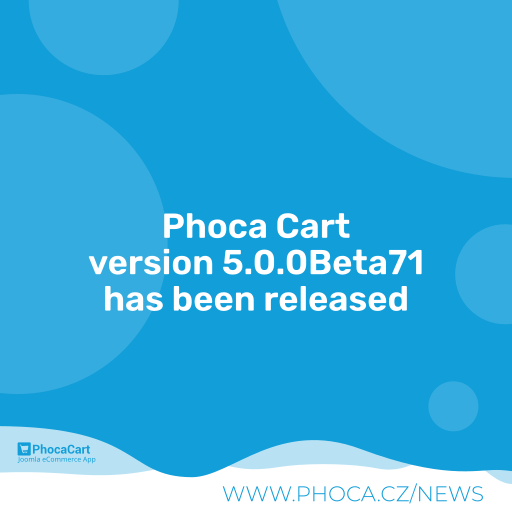
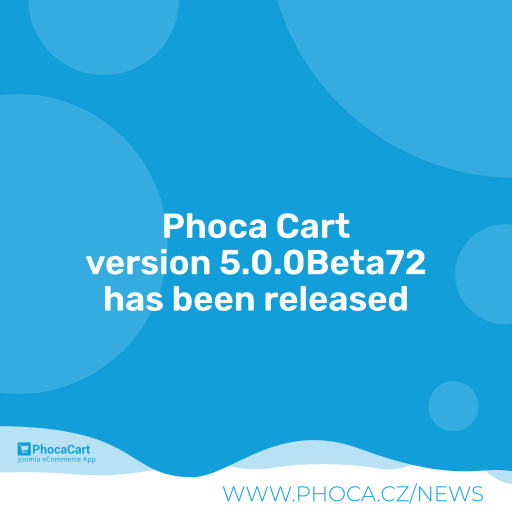
5.0.0Beta72

Changed region(s): [[0.1562, 0.4688, 0.8438, 0.5625]]

diff --git a/media/css/main.css b/media/css/main.css
@@ -2593,3 +2593,19 @@ form.ph-form-placeholder .ph-checkout-billing-row {
 }
 
 
+/* Possible Info about discounted product */
+/*
+.ph-item-box:has(> .pc-status-discount-product) {
+    background: #ffc107;
+}
+
+.pc-status-discount-product:before {
+    content: "Sale";
+    background: #d9534f;
+    color: #fff;
+    width: fit-content;
+    padding: 0.25em;
+    position:absolute;
+    right: 1em;
+}
+*/

diff --git a/site/views/item/tmpl/default.php b/site/views/item/tmpl/default.php
@@ -73,7 +73,69 @@ $x = isset($this->item[0]) ? $this->item[0] : null;
 if (!empty($x) && isset($x->id) && (int)$x->id > 0) {
 
 	$idName			= 'VItemP'.(int)$x->id;
-	echo '<div class="'.$this->s['c']['row'].'">';
+
+    // FIRST - GET PRICE INFO (the price is not displayed here but we need the info about price e.g. for different classes)
+    $price 				= new PhocacartPrice;// Can be used by options
+    $priceItems = array();
+	if ($this->t['can_display_price']) {
+
+		$priceItems	= $price->getPriceItems($x->price, $x->taxid, $x->taxrate, $x->taxcalculationtype, $x->taxtitle, $x->unit_amount, $x->unit_unit, 1, 1, $x->group_price, $x->taxhide);
+		// Can change price and also SKU OR EAN (Advanced Stock and Price Management)
+		$price->getPriceItemsChangedByAttributes($priceItems, $this->t['attr_options'], $price, $x);
+
+		$dP					= array();
+		$dP['s']				= $this->s;
+		$dP['type']          = $x->type;// PRODUCTTYPE
+		$dP['priceitems']	= $priceItems;
+
+		$dP['priceitemsorig']= array();
+		if ($x->price_original != '' && $x->price_original > 0) {
+			$dP['priceitemsorig'] = $price->getPriceItems($x->price_original, $x->taxid, $x->taxrate, $x->taxcalculationtype, '', 0, '', 0, 1, null, $x->taxhide);
+		}
+		$dP['class']			= 'ph-item-price-box';
+		$dP['product_id']	= (int)$x->id;
+		$dP['typeview']		= 'Item';
+
+		// Display discount price
+		// Move standard prices to new variable (product price -> product discount)
+		$dP['priceitemsdiscount']		= $dP['priceitems'];
+		$dP['discount'] 					= PhocacartDiscountProduct::getProductDiscountPrice($x->id, $dP['priceitemsdiscount']);
+
+		// Display cart discount (global discount) in product views - under specific conditions only
+		// Move product discount prices to new variable (product price -> product discount -> product discount cart)
+		$dP['priceitemsdiscountcart']	= $dP['priceitemsdiscount'];
+		$dP['discountcart']				= PhocacartDiscountCart::getCartDiscountPriceForProduct($x->id, $x->catid, $dP['priceitemsdiscountcart']);
+
+		$dP['zero_price']		= 1;// Apply zero price if possible
+	}
+
+    // Additional class
+    $classAdditional = [];
+    if (PhocacartRenderFront::renderNewIcon($x->date, 1, 1)) {
+        $classAdditional[] = 'pc-status-new';
+    }
+    if (PhocacartRenderFront::renderHotIcon($x->sales, 1, 1)) {
+        $classAdditional[] = 'pc-status-hot';
+    }
+
+    if (PhocacartRenderFront::renderFeaturedIcon($x->featured, 1, 1)) {
+        $classAdditional[] = 'pc-status-featured';
+    }
+
+    if (isset($dP['discount']) && $dP['discount']) {
+        $classAdditional[] = 'pc-status-discount-product';
+    }
+
+    if (isset($dP['discountcart']) && $dP['discountcart']) {
+        $classAdditional[] = 'pc-status-discount-cart';
+    }
+
+    $classAdditionalOutput = !empty($classAdditional) ? ' '. implode(' ', $classAdditional) : '';// Additional class
+
+
+
+    // RENDER
+	echo '<div class="'.$this->s['c']['row'].$classAdditionalOutput.'">';
 
 	// === IMAGE PANEL
 	echo '<div id="phImageBox" class="'.$this->s['c']['col.xs12.sm5.md5'] .' ph-item-view-image-box">';
@@ -204,44 +266,9 @@ if (!empty($x) && isset($x->id) && (int)$x->id > 0) {
 
 	echo PhocacartRenderFront::renderHeader(array($title));
 
-
-
 	// :L: PRICE
-	$price 				= new PhocacartPrice;// Can be used by options
-
-
-	$priceItems = array();
 	if ($this->t['can_display_price']) {
-
-		$priceItems	= $price->getPriceItems($x->price, $x->taxid, $x->taxrate, $x->taxcalculationtype, $x->taxtitle, $x->unit_amount, $x->unit_unit, 1, 1, $x->group_price, $x->taxhide);
-		// Can change price and also SKU OR EAN (Advanced Stock and Price Management)
-		$price->getPriceItemsChangedByAttributes($priceItems, $this->t['attr_options'], $price, $x);
-
-		$d					= array();
-		$d['s']				= $this->s;
-		$d['type']          = $x->type;// PRODUCTTYPE
-		$d['priceitems']	= $priceItems;
-
-		$d['priceitemsorig']= array();
-		if ($x->price_original != '' && $x->price_original > 0) {
-			$d['priceitemsorig'] = $price->getPriceItems($x->price_original, $x->taxid, $x->taxrate, $x->taxcalculationtype, '', 0, '', 0, 1, null, $x->taxhide);
-		}
-		$d['class']			= 'ph-item-price-box';
-		$d['product_id']	= (int)$x->id;
-		$d['typeview']		= 'Item';
-
-		// Display discount price
-		// Move standard prices to new variable (product price -> product discount)
-		$d['priceitemsdiscount']		= $d['priceitems'];
-		$d['discount'] 					= PhocacartDiscountProduct::getProductDiscountPrice($x->id, $d['priceitemsdiscount']);
-
-		// Display cart discount (global discount) in product views - under specific conditions only
-		// Move product discount prices to new variable (product price -> product discount -> product discount cart)
-		$d['priceitemsdiscountcart']	= $d['priceitemsdiscount'];
-		$d['discountcart']				= PhocacartDiscountCart::getCartDiscountPriceForProduct($x->id, $x->catid, $d['priceitemsdiscountcart']);
-
-		$d['zero_price']		= 1;// Apply zero price if possible
-		echo $layoutP->render($d);
+		echo $layoutP->render($dP);
 	}
 
 	if ( isset($x->description) && $x->description != '') {

diff --git a/admin/models/phocacartitem.php b/admin/models/phocacartitem.php
@@ -301,7 +301,9 @@ class PhocaCartCpModelPhocaCartItem extends AdminModel
 		$table->title					= htmlspecialchars_decode($table->title, ENT_QUOTES);
 		$table->alias					= ApplicationHelper::stringURLSafe($table->alias);
 		$table->price 					= PhocacartUtils::replaceCommaWithPoint($table->price);
+        $table->price                   = PhocacartText::filterValue($table->price, 'float');
 		$table->price_original 			= PhocacartUtils::replaceCommaWithPoint($table->price_original);
+        $table->price_original          = PhocacartText::filterValue($table->price_original, 'float');
 		$table->length 					= PhocacartUtils::replaceCommaWithPoint($table->length);
 		$table->width 					= PhocacartUtils::replaceCommaWithPoint($table->width);
 		$table->height 					= PhocacartUtils::replaceCommaWithPoint($table->height);

diff --git a/site/views/items/tmpl/default.php b/site/views/items/tmpl/default.php
@@ -427,6 +427,14 @@ if (!empty($this->items) && $this->t['pluginlayout']) {
 			$classAdditional[] = 'pc-status-featured';
 		}
 
+		if (isset($dP['discount']) && $dP['discount']) {
+            $classAdditional[] = 'pc-status-discount-product';
+        }
+
+        if (isset($dP['discountcart']) && $dP['discountcart']) {
+            $classAdditional[] = 'pc-status-discount-cart';
+        }
+
 		$dL['class_additional'] = !empty($classAdditional) ? implode(' ', $classAdditional) : '';// Additional class
 		$dL['product_header']	= PhocacartRenderFront::renderProductHeader($this->t['product_name_link'], $v, 'item', '', $lt);
         $dL['item']             = $v;

diff --git a/site/views/category/tmpl/default.php b/site/views/category/tmpl/default.php
@@ -439,6 +439,14 @@ if (!empty($this->items) && $this->t['pluginlayout']) {
 			$classAdditional[] = 'pc-status-featured';
 		}
 
+        if (isset($dP['discount']) && $dP['discount']) {
+            $classAdditional[] = 'pc-status-discount-product';
+        }
+
+        if (isset($dP['discountcart']) && $dP['discountcart']) {
+            $classAdditional[] = 'pc-status-discount-cart';
+        }
+
 		$dL['class_additional'] = !empty($classAdditional) ? implode(' ', $classAdditional) : '';// Additional class
 
 		$dL['product_header']	= PhocacartRenderFront::renderProductHeader($this->t['product_name_link'], $v, 'item', '', $lt);

diff --git a/admin/libraries/phocacart/text/text.php b/admin/libraries/phocacart/text/text.php
@@ -559,6 +559,11 @@ class PhocacartText {
                 return preg_replace("/[^\\w.,]/", '', $string);// Alphanumeric plus _ . ,
             break;
 
+            case 'float':
+                $pattern = '/[-+]?[0-9]+(\.[0-9]+)?([eE][-+]?[0-9]+)?/';
+                preg_match($pattern, $string, $matches);
+                return isset($matches[0]) ? (float) $matches[0] : 0.0;
+            break;
 
             case 'folder':
             case 'file':

diff --git a/admin/libraries/phocacart/price/history.php b/admin/libraries/phocacart/price/history.php
@@ -36,6 +36,7 @@ class PhocacartPriceHistory
 
 
 		$price		= PhocacartUtils::replaceCommaWithPoint($price);
+        $price      = PhocacartText::filterValue($price, 'float');
 
 		if (isset($history['price']) && $history['price'] == $price) {
 			// Do nothing

diff --git a/README.MD b/README.MD
@@ -132,7 +132,7 @@ Phoca Cart is e-commerce extension - powerful shopping cart for Joomla! CMS. Pho
 
 ## Version (Joomla! 5.x)
 
-5.0.0Beta71
+5.0.0Beta72
 
 
 
